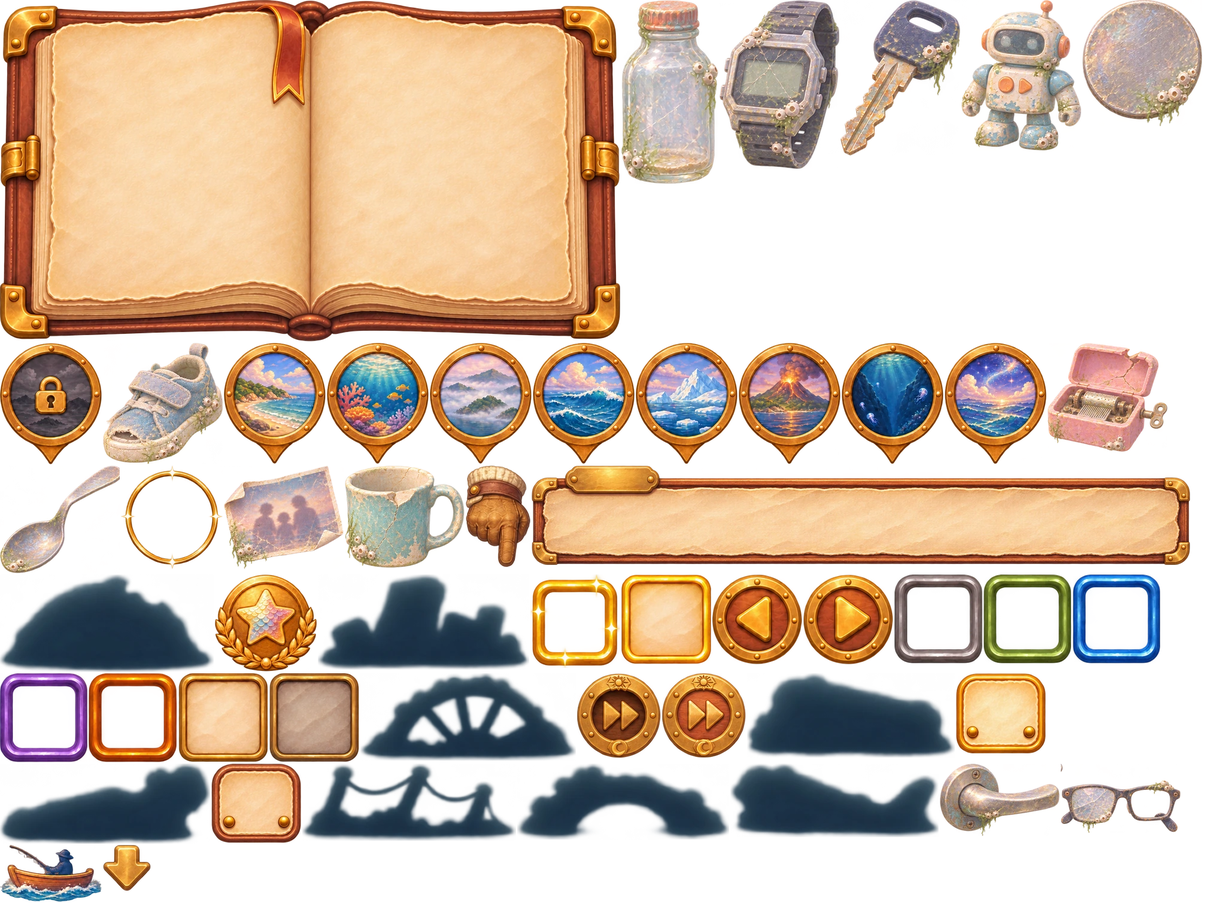
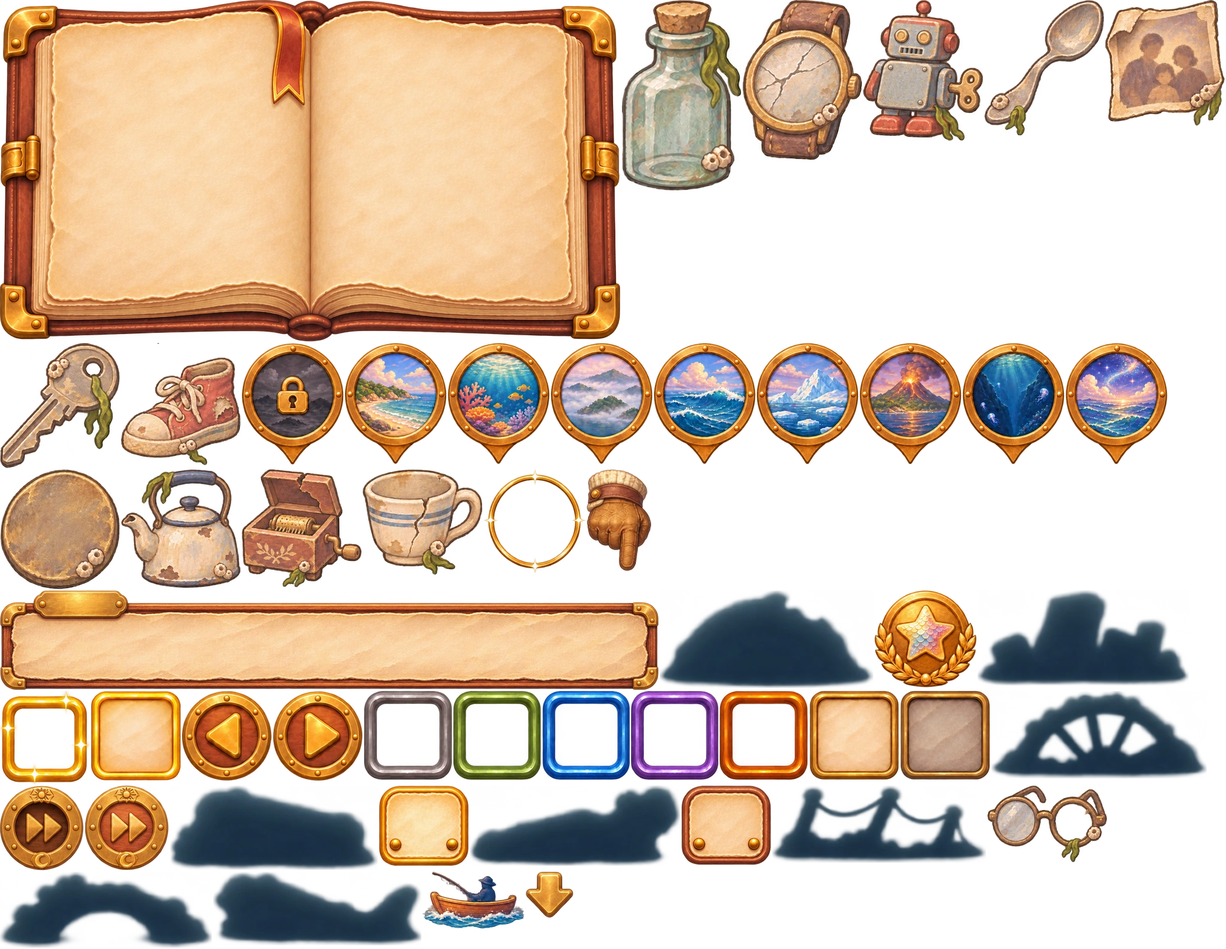
오래된 물건: 환상종이 남기는 가족의 물건 12점, 기억 장면, 능력, 도감의 옛 탭
- 주인공은 옛 세상에서 떠밀려 온 아이 (프롤로그 대사 수정)
- 물건을 주우면 말 없이 기억 두 줄이 떠오르고 능력이 하나 붙는다
- 환상종이 48마리 연달아 안 나오면 다음은 반드시 환상종
- 오르골을 찾으면 옛 노래가 끝까지 흐른다

Claude-Session: https://claude.ai/code/session_0142yqQtSepe3ngremP8BMYq

diff --git a/src/game.js b/src/game.js
@@ -12,6 +12,7 @@ import { sprite, preloadCreature } from './assets.js';
 import { createSwimmer, steer, mouth, updatePose } from './swim.js';
 import { newStory, updateStory, tapTalk } from './story.js';
 import { updateBook } from './book.js';
+import { RELICS, has } from './relics.js';
 
 const rand = (a, b) => a + Math.random() * (b - a);
 const lerp = (a, b, t) => a + (b - a) * t;
@@ -28,6 +29,7 @@ export function createGame() {
     eco: newEconomy(),                       // 장비·스킬 레벨
     cargo: [], cargoMax: 8,                  // 어창: 낚은 생물을 싣는다. 항구에서 판다
     region: 1,                               // 지금 있는 해역 (1~8)
+    relics: 0, memory: null, memoryNext: null, savedToday: false,   // 찾은 오래된 물건 수, 떠오르는 기억 장면, 오늘 줄을 한 번 살렸는가
     story: newStory(), talk: null, skip: null,   // 이야기 진행, 지금 떠 있는 대화, 시간 넘기는 중
     forceGrade: null, phase: 3, dayT: 0, dayWarned: false,   // 시간대(낮→노을→밤→새벽)와 그 시간대가 흐른 시간
     power: 0, powerDir: 1, castX: CAST_NEAR,
@@ -123,7 +125,7 @@ function buzz(pattern) { try { if (navigator.vibrate) navigator.vibrate(pattern)
 // ── 입력 ──
 export function press(g) {
   if (g.talk) { tapTalk(g); return; }                 // 대화 중에는 누르면 다음 줄
-  if (g.skip || g.map || g.dex) return;
+  if (g.skip || g.map || g.dex || g.memory) return;
   if (g.scene !== 'sea' || g.panel || g.travel) return;
   g.hold = true;
   switch (g.state) {
@@ -152,7 +154,7 @@ export function press(g) {
     case 'result':
       if (g.t > (g.catch.quick ? 0.55 : 1.1)) {
         const f = g.fish;
-        if (f.isFantasy) { g.catch.phase = 'release'; }
+        if (f.isFantasy) { g.catch.phase = 'release'; if (g.relics < RELICS.length) { g.memoryNext = g.relics; g.relics++; g.dirty = true; } }   // 놓아주면 오래된 물건 하나를 떨어뜨리고 간다
         else {
           say(g, `어창에 실었다 (${g.cargo.length}/${g.cargoMax})`); g.msg.y = H - 14;      // 낚은 생물과 현판을 가리지 않게 맨 아래에
           snd(g, 'stow');
@@ -204,10 +206,10 @@ export function update(g, dt) {
   updateTravel(g, dt); updateHarbor(g, dt); updateStory(g, dt); updateBook(g, dt);
   // 바다에서의 하루: 새벽에 나가서 밤이 끝나면 항구로 돌아온다 (항구에 있는 동안은 시간이 멈춘다)
   if (g.scene === 'sea' && !g.travel) {
-    if (!g.talk && !g.skip && !g.map && !g.dex) g.dayT += dt;                // 대화하는 동안은 시간이 흐르지 않는다
+    if (!g.talk && !g.skip && !g.map && !g.dex && !g.memory) g.dayT += dt / (has(g, 'cup') ? 1.1 : 1);   // 컵: 하루가 길어진다                // 대화하는 동안은 시간이 흐르지 않는다
     g.phase = phaseAt(Math.min(0.999, g.dayT / DAY_SEC));
     if (!g.dayWarned && g.dayT > DAY_SEC * 0.9) { g.dayWarned = true; if (g.state === 'idle' || g.state === 'wait') say(g, '밤이 깊었다. 곧 돌아가야 한다', '#cfd8ff'); }
-    if (g.dayT >= DAY_SEC && g.state === 'idle' && !g.panel && !g.talk && !g.map && !g.dex) {             // 낚시 중이면 그 한 마리는 끝까지 낚게 둔다
+    if (g.dayT >= DAY_SEC && g.state === 'idle' && !g.panel && !g.talk && !g.map && !g.dex && !g.memory) {             // 낚시 중이면 그 한 마리는 끝까지 낚게 둔다
       if (enterHarbor(g)) g.msg = { text: '하루가 저물어 항구로 돌아간다', color: '#cfd8ff', age: 0 };
     }
   }
@@ -241,7 +243,7 @@ export function update(g, dt) {
       break;
     }
     case 'charge': {
-      g.power += g.powerDir * TIMING.chargeSpeed * dt;
+      g.power += g.powerDir * TIMING.chargeSpeed * (has(g, 'shoe') ? 1.4 : 1) * dt;
       if (g.power >= 1) { g.power = 1; g.powerDir = -1; }
       if (g.power <= 0) { g.power = 0; g.powerDir = 1; }
       rodTarget = 1.5 + g.power * 0.7; rodRate = 12; pose = 2;
@@ -380,7 +382,10 @@ export function update(g, dt) {
 
 // ── 입질 대기: 그림자가 깊은 곳에서 올라와 찌 밑을 맴돌다가 문다 ──
 function startWait(g) {
-  g.fish = rollCreature(g.forceGrade, g.region, luckOf(g.eco, GRADES));                // 복장(행운): 높은 등급이 잘 나온다
+  // 환상종은 드물지만, 너무 오래 안 나오면 반드시 한 번 나온다 (오래된 물건이 운에만 달리지 않게)
+  const pity = !g.forceGrade && (g.sinceFantasy || 0) >= PITY ? 'fantasy' : null;
+  g.fish = rollCreature(g.forceGrade || pity, g.region, luckOf(g.eco, GRADES), has(g, 'musicbox') ? 1.5 : 1);
+  g.sinceFantasy = g.fish.isFantasy ? 0 : (g.sinceFantasy || 0) + 1;                // 복장(행운): 높은 등급이 잘 나온다
   g.fish.price = Math.round(g.fish.price * priceMult(g.eco, g.region));                // 해역·흥정·크기에 따른 값
   g.fish.meters *= sizeMult(g.eco);                                                    // 큰 개체: 몸길이
   g.fish.power = clamp(g.fish.power * pullOf(g.eco, g.region), 0.2, 6);                // 낚싯대에 비해 얼마나 세게 날뛰는가
@@ -395,7 +400,7 @@ function startWait(g) {
     { x: fx - L * rand(0.1, 0.34), y: DEEP * rand(0.52, 0.86), speed: rand(0.42, 0.62) },
   ];
   if (Math.random() < 0.35) plan.push(linger());                                // 가끔은 찌를 올려다보며 한참 뜸을 들인다
-  const fakes = Math.floor(rand(0, 2.6));
+  const fakes = Math.floor(rand(0, has(g, 'key') ? 1.5 : 2.6));
   for (let i = 0; i < fakes; i++) {
     plan.push({ touch: true, fake: true, speed: rand(0.4, 0.6) });
     plan.push({ x: fx - L * rand(0.52, 0.8), y: rand(82, 126), speed: rand(0.36, 0.56), face: 1, hover: Math.random() < 0.4 ? rand(0.3, 1) / q0 : 0 });   // 건드려 보고는 뒷걸음질로 물러났다가 다시 온다
@@ -456,8 +461,8 @@ function holdAtFloat(g, dt) {
 function startBite(g) {
   const pattern = g.fish.bite;
   g.bite = pattern === 'tok'
-    ? { pattern, next: 0, openAt: TIMING.tokInterval * 2, window: TIMING.tokWindow, perfectWin: TIMING.tokPerfect }
-    : { pattern, started: false, openAt: 0, window: TIMING.pullWindow, perfectWin: TIMING.pullPerfect };
+    ? { pattern, next: 0, openAt: TIMING.tokInterval * 2, window: TIMING.tokWindow, perfectWin: TIMING.tokPerfect * (has(g, 'watch') ? 1.5 : 1) }
+    : { pattern, started: false, openAt: 0, window: TIMING.pullWindow, perfectWin: TIMING.pullPerfect * (has(g, 'watch') ? 1.5 : 1) };
   setState(g, 'bite');
 }
 
@@ -505,11 +510,11 @@ function updateFight(g, dt) {
     if (f.tele <= 0) { f.mode = f.next; startMode(g); }
   } else if (f.modeT <= 0) {
     const next = chooseMode(g);
-    if (SURGE_MODES.includes(next)) { f.tele = TELEGRAPH; f.next = next; f.modeT = 99; }
+    if (SURGE_MODES.includes(next)) { f.tele = TELEGRAPH + (has(g, 'glasses') ? 0.15 : 0); f.next = next; f.modeT = 99; }
     else { f.mode = next; startMode(g); }
   }
   f.surging = SURGE_MODES.includes(f.mode) && f.tele <= 0;
-  f.stamina = clamp(f.stamina + (f.surging ? -0.06 : 0.02) * dt, 0, 1);
+  f.stamina = clamp(f.stamina + (f.surging ? -0.06 * (has(g, 'kettle') ? 1.5 : 1) : 0.02) * dt, 0, 1);
 
   // 감기·풀기
   const tired = f.mode === 'tired';
@@ -579,8 +584,11 @@ function updateFight(g, dt) {
     g.shake = Math.max(g.shake, 0.4 + p * 0.3);
   }
 
+  if (f.tension >= f.maxTension && has(g, 'photo') && !g.savedToday) {      // 가족 사진: 하루에 한 번, 끊어지려는 줄이 버텨 준다
+    g.savedToday = true; f.tension = f.maxTension * 0.45; g.flash = Math.max(g.flash, 0.2); say(g, '줄이 버텨 주었다', '#ffe9b8'); snd(g, 'card');
+  }
   if (f.tension >= f.maxTension) { fail(g, p > OVERPOWER ? '낚싯대가 버티지 못했다! 더 좋은 낚싯대가 필요하다' : g.fish.strain > OVERPOWER ? '줄이 끊어졌다! 더 좋은 줄이 필요하다' : '줄이 끊어졌다!'); return null; }
-  if (f.slack > FIGHT.slackTime) { fail(g, '바늘이 빠졌다…'); return null; }
+  if (f.slack > FIGHT.slackTime * (has(g, 'bottle') ? 1.6 : 1)) { fail(g, '바늘이 빠졌다…'); return null; }
   if (f.dist <= 0) {
     // 다 감았다. 다만 배 밑이나 반대쪽에 가 있으면 솟구칠 자리까지 뒷걸음질치게 되므로,
     // 제자리(배 왼쪽)로 돌아올 때까지 지친 상태로 끌려오게 한 뒤 낚아 올린다.
@@ -615,6 +623,7 @@ const SLOW = [0.55, 0.45, 0.38, 0.3, 0.25, 0.2];
 const DIM = [0, 0.04, 0.08, 0.14, 0.2, 0.26];
 const OVERPOWER = 1.75;    // 생물의 힘 ÷ 내 장비의 힘이 이보다 크면 감당할 수 없다
 const T_PULL = 0.95;
+export const PITY = 48;      // 환상종이 이만큼 연달아 안 나오면 다음은 환상종
 const QUICK = 2;            // 이미 본 일반 등급의 연출 빠르기
 const FACE_HOLD = 0.55;    // 뿅 한 뒤 카메라가 물러나기 시작할 때까지(초)
 const PULL_BACK = 1.7;     // 카메라가 물러나는 데 걸리는 시간(초)
@@ -636,7 +645,7 @@ function startCatch(g) {
   if (g.sw) ex += clamp(g.sw.x + lw * 0.3 - ex, -50, 40);            // 그림자가 있는 자리에 가깝게
   g.catch = {
     phase: 'pull', pt: 0, lw, gi, zoom, zs, ex, big, fit, ax, ay, fx,
-    quick: g.fish.grade === 'common' && g.records[g.fish.name] != null,
+    quick: (g.fish.grade === 'common' || (has(g, 'robot') && !g.fish.isFantasy)) && g.records[g.fish.name] != null,
     rise: 1.25,
     x: ex, y: WL + 200, rot: -0.5, out: 0, mix: 0, alpha: 1, scale: 1,
     erupted: false, shed: 0, skip: false, from: null, trail: 0,
@@ -742,6 +751,8 @@ function updateCatch(g, dt) {
     if (!g.catchFx && c.reveal && (c.popT >= tadaAt || c.skip)) { g.catchFx = { age: 0, gi }; c.tadaT = c.popT; g.flash = Math.max(g.flash, 0.25); snd(g, 'fanfare', gi); buzz([30, 40, 60 + gi * 20]); }
     if (g.catchFx && c.reveal && (c.popT >= c.tadaT + 0.3 || c.skip)) {
       const f = g.fish, prev = g.records[f.name];
+      if (prev === undefined && has(g, 'spoon')) f.price *= 2;                         // 숟가락: 처음 낚은 생물
+      if (prev !== undefined && f.meters > prev && has(g, 'coin')) f.price = Math.round(f.price * 1.5);   // 동전: 신기록
       g.result = { creature: f, isNew: prev === undefined, isRecord: prev !== undefined && f.meters > prev, prev, stamped: false, tickT: 0 };
       g.records[f.name] = Math.max(prev || 0, f.meters);
       if (!f.isFantasy) g.cargo.push({ name: f.name, price: f.price, grade: f.grade });   // 낚은 순간에 어창에 실린다 (카드를 보다가 꺼도 잃지 않는다. 판매는 항구에서)

diff --git a/src/book.js b/src/book.js
@@ -5,6 +5,7 @@ import { REGIONS } from './creatures.js';
 import { DOTS } from './dots.js';
 import { maxRegion } from './economy.js';
 import { DEX_TEXT } from './dexText.js';
+import { RELICS } from './relics.js';
 
 const FONT = '"Hahmlet", system-ui, "Apple SD Gothic Neo", "Malgun Gothic", sans-serif';
 const FONT2 = '"Jua", system-ui, "Apple SD Gothic Neo", "Malgun Gothic", sans-serif';
@@ -81,16 +82,16 @@ export function drawMap(ctx, g) {
 // ── 도감: 왼쪽 쪽에 그 해역의 생물 칸, 오른쪽 쪽에 고른 생물 ──
 const BW = 600, BX = (W - BW) / 2;
 const bookH = () => BW * sprite('dex_book').h / sprite('dex_book').w, BY = () => (H - bookH()) / 2 + 4;
-const TABS = [1, 2, 3, 4, 5, 6, 7, 8, 0];                 // 0 = 모든 해역 공용(평범한 물고기)
+const TABS = [1, 2, 3, 4, 5, 6, 7, 8, 0, 'R'];            // 0 = 모든 해역 공용(평범한 물고기), 'R' = 오래된 물건
 const COLS = 5, ROWS = 4, PER = COLS * ROWS, SLOT = 35, GAP = 5;
 const LX = () => BX + BW * 0.135, RX = () => BX + BW * 0.53, PW = () => BW * 0.34;      // 왼쪽·오른쪽 쪽의 안쪽 자리와 폭
 const gridY = () => BY() + 50;
-const listOf = (tab) => DOTS.filter((d) => d[3] === tab).sort((p, q) => GI[p[2]] - GI[q[2]]);
-const known = (g, d) => g.records[d[0]] != null;
-const tabRect = (i) => ({ x: LX() - 8 + i * 19.5, y: BY() - 3, w: 18.5, h: 17 });
+const listOf = (tab) => tab === 'R' ? RELICS : DOTS.filter((d) => d[3] === tab).sort((p, q) => GI[p[2]] - GI[q[2]]);
+const known = (g, d) => d.mem ? RELICS.indexOf(d) < (g.relics || 0) : g.records[d[0]] != null;
+const tabRect = (i) => ({ x: LX() - 12 + i * 16.4, y: BY() - 3, w: 15.8, h: 15 });
 const slotRect = (i) => ({ x: LX() + (PW() - (COLS * SLOT + (COLS - 1) * GAP)) / 2 + (i % COLS) * (SLOT + GAP), y: gridY() + Math.floor(i / COLS) * (SLOT + GAP), w: SLOT, h: SLOT });
 const arrowRect = (dir) => ({ x: LX() + PW() / 2 + dir * 46 - 9, y: gridY() + ROWS * (SLOT + GAP) + 3, w: 18, h: 18 });
-function loadPage(g) { const d = g.dex, list = listOf(d.tab).slice(d.page * PER, d.page * PER + PER); preloadCreature(...list.filter((c) => known(g, c)).map((c) => 'd_' + c[1])); }
+function loadPage(g) { const d = g.dex, list = listOf(d.tab).slice(d.page * PER, d.page * PER + PER); if (d.tab !== 'R') preloadCreature(...list.filter((c) => known(g, c)).map((c) => 'd_' + c[1])); }
 export function openDex(g) { g.dex = { a: 0, t: 0, closing: null, tab: g.region, page: 0, sel: null, selT: 0 }; loadPage(g); g.sfx.push(['paper']); }
 const inRect = (x, y, r, pad = 0) => x >= r.x - pad && x <= r.x + r.w + pad && y >= r.y - pad && y <= r.y + r.h + pad;
 export function tapDex(g, x, y) {
@@ -117,17 +118,18 @@ export function drawDex(ctx, g) {
   // 해역 탭 (책 위쪽에 꽂힌 쪽지)
   TABS.forEach((t, i) => { const r = tabRect(i), on = d.tab === t; img(ctx, on ? 'dex_tab_on' : 'dex_tab', r.x - (on ? 1 : 0), r.y - (on ? 3 : 0), r.w + (on ? 2 : 0)); });
   img(ctx, 'dex_book', BX, BY(), BW, bh);
-  TABS.forEach((t, i) => { const r = tabRect(i), on = d.tab === t; label(ctx, t ? String(t) : '공', r.x + r.w / 2, r.y + 6 - (on ? 2 : 0), 7.5, on ? '#5a3a1e' : '#8a7458', 'center', 700, null); });
+  TABS.forEach((t, i) => { const r = tabRect(i), on = d.tab === t; label(ctx, t === 'R' ? '옛' : t ? String(t) : '공', r.x + r.w / 2, r.y + 5.5 - (on ? 2 : 0), 7, on ? '#5a3a1e' : '#8a7458', 'center', 700, null); });
 
   const list = listOf(d.tab), pages = Math.max(1, Math.ceil(list.length / PER)), got = list.filter((c) => known(g, c)).length;
-  label(ctx, d.tab ? `${d.tab}. ${REGIONS[d.tab]}` : '어느 바다에나 사는 물고기', LX(), BY() + 34, 10.5, '#5a3a1e', 'left', 700, null);
+  label(ctx, d.tab === 'R' ? '오래된 물건' : d.tab ? `${d.tab}. ${REGIONS[d.tab]}` : '어느 바다에나 사는 물고기', LX(), BY() + 34, 10.5, '#5a3a1e', 'left', 700, null);
   label(ctx, `${got} / ${list.length}`, LX() + PW() - 36, BY() + 34, 9.5, '#8a6a48', 'right', 600, null);     // 책갈피 끈에 가리지 않는 자리
   const shown = list.slice(d.page * PER, d.page * PER + PER), pageA = clamp(d.t / 0.2, 0, 1);
   ctx.globalAlpha = a * (0.3 + 0.7 * pageA);
   shown.forEach((c, i) => {
     const r = slotRect(i), ok = known(g, c), sel = d.sel === c;
     img(ctx, sel ? 'dex_slot_on' : ok ? 'dex_slot' : 'dex_slot_off', r.x, r.y, r.w, r.h);
-    if (ok) { creature(ctx, 'd_' + c[1], r.x + r.w / 2, r.y + r.h / 2, r.w - 11, r.h - 11); img(ctx, 'dex_fr_' + (GI[c[2]] + 1), r.x + 1, r.y + 1, r.w - 2, r.h - 2); }
+    if (ok && c.mem) { const rs = sprite('relic_' + c.art), k = Math.min((r.w - 10) / rs.w, (r.h - 10) / rs.h); ctx.drawImage(rs.img, r.x + r.w / 2 - rs.w * k / 2, r.y + r.h / 2 - rs.h * k / 2, rs.w * k, rs.h * k); }
+    else if (ok) { creature(ctx, 'd_' + c[1], r.x + r.w / 2, r.y + r.h / 2, r.w - 11, r.h - 11); img(ctx, 'dex_fr_' + (GI[c[2]] + 1), r.x + 1, r.y + 1, r.w - 2, r.h - 2); }
     else label(ctx, '?', r.x + r.w / 2, r.y + r.h / 2 + 1, 13, 'rgba(90,70,50,0.55)', 'center', 700, null);
   });
   ctx.globalAlpha = a;
@@ -143,6 +145,24 @@ export function drawDex(ctx, g) {
     label(ctx, '도감', cx, BY() + 60, 16, '#5a3a1e', 'center', 700, null);
     label(ctx, `${all} / ${DOTS.length}`, cx, BY() + 86, 13, '#8a4a22', 'center', 700, null);
     label(ctx, '칸을 누르면 낚은 생물을 볼 수 있다', cx, BY() + 120, 9, '#8a7458', 'center', 600, null);
+  } else if (c.mem) {
+    // 오래된 물건: 마을 사람이 적은 한 줄, 떠오른 기억, 붙은 능력
+    const ok = known(g, c), k = clamp((d.t - d.selT) / 0.22, 0, 1), e = 1 - Math.pow(1 - k, 3);
+    ctx.globalAlpha = a * e;
+    if (ok) {
+      const rs = sprite('relic_' + c.art), kk = Math.min(rw * 0.42 / rs.w, 62 / rs.h);
+      ctx.drawImage(rs.img, cx - rs.w * kk / 2, BY() + 76 - rs.h * kk / 2 + (1 - e) * 5, rs.w * kk, rs.h * kk);
+      ctx.font = `600 8.5px ${FONT}`;
+      let yy = BY() + 122;
+      wrap(ctx, c.dex, rw - 14).forEach((ln) => { label(ctx, ln, cx, yy, 8.5, '#8a6a48', 'center', 600, null); yy += 11.5; });
+      yy += 6; c.mem.forEach((ln) => { label(ctx, ln, cx, yy, 9.5, '#3b2c1e', 'center', 700, null); yy += 13; });
+      yy += 6; ctx.font = `600 8.5px ${FONT}`; wrap(ctx, c.perk, rw - 14).forEach((ln) => { label(ctx, ln, cx, yy, 8.5, '#8a4a22', 'center', 700, null); yy += 11.5; });
+    } else {
+      label(ctx, '?', cx, BY() + 92, 44, 'rgba(90,70,50,0.4)', 'center', 700, null);
+      label(ctx, '아직 찾지 못했다', cx, BY() + 142, 12, '#5a4630', 'center', 700, null);
+      label(ctx, '환상의 생물을 놓아주면 무언가 남기고 간다', cx, BY() + 160, 8.5, '#8a6a48', 'center', 600, null);
+    }
+    ctx.globalAlpha = a;
   } else {
     const ok = known(g, c), gr = GRADES[GI[c[2]]], k = clamp((d.t - d.selT) / 0.22, 0, 1), e = 1 - Math.pow(1 - k, 3);
     ctx.globalAlpha = a * e;

diff --git a/src/relics.js b/src/relics.js
@@ -1,0 +1,32 @@
+// 오래된 물건: 환상종을 놓아주면 하나씩 떨어뜨리고 간다. 전부 주인공 가족의 물건이다.
+// 주인공은 옛 세상에서 떠밀려 온 아이였고 기억이 없다. 물건을 하나 찾을 때마다 기억이 한 조각씩 돌아오고, 능력이 하나씩 붙는다.
+// 기억은 말하는 사람 없이 글로만 떠오른다 (주인공은 말이 없다). 그날 무슨 일이 있었는지는 끝까지 직접 말하지 않는다.
+//   art = 그림 번호(relic_N), dex = 도감에 적힌 마을 사람의 한 줄(무엇인지 모른다), mem = 떠오르는 기억, perk = 능력
+export const RELICS = [
+  { id: 'spoon',    name: '숟가락',     art: 5,  dex: '움푹한 쇠 주걱. 국을 뜨기에는 너무 작다고 생선 장수는 말한다.',
+    mem: ['아침마다 식탁에서', '누군가 내 그릇에 한 숟갈을 더 얹어 주었다.'], perk: '처음 낚은 생물은 값이 2배' },
+  { id: 'cup',      name: '금 간 컵',   art: 11, dex: '손잡이 달린 그릇. 금이 갔는데도 누가 오래 쓴 흔적이 있다.',
+    mem: ['버리자고 해도 엄마는', '이 컵이 제일 손에 맞는다고 했다.'], perk: '하루가 10% 길어진다' },
+  { id: 'key',      name: '열쇠',       art: 2,  dex: '끝이 들쭉날쭉한 쇠붙이. 맞는 자물쇠는 마을 어디에도 없다.',
+    mem: ['우리 집 문의 열쇠.', '목에 걸고 다니다 잃어버려서 혼났다.'], perk: '헛입질이 줄어든다' },
+  { id: 'coin',     name: '동전',       art: 7,  dex: '다 닳아 무늬가 없는 둥근 쇠. 값을 매길 수 없다고 시장은 말한다.',
+    mem: ['아빠가 내 귀 뒤에서 꺼내 보이던 동전.', '나는 매번 속았다.'], perk: '신기록을 세우면 값 +50%' },
+  { id: 'bottle',   name: '유리병',     art: 8,  dex: '맑은 통에 나무 마개. 속은 비어 있다.',
+    mem: ['편지를 넣어 바다에 띄웠다.', '누군가 읽어 주기를 바라면서.'], perk: '줄이 느슨해도 바늘이 잘 빠지지 않는다' },
+  { id: 'glasses',  name: '안경',       art: 6,  dex: '둥근 유리 두 장. 눈에 대면 글씨가 커 보인다. 한 장은 빠졌다.',
+    mem: ['아빠는 안경을 이마에 올려놓고', '안경을 찾았다.'], perk: '날뛰기 전의 조짐이 더 오래 보인다' },
+  { id: 'shoe',     name: '신발 한 짝', art: 9,  dex: '아이 발에나 맞을 작은 신. 한 짝뿐이다.',
+    mem: ['내 신발. 한 짝을 잃어버린 날,', '업혀서 집에 왔다.'], perk: '던지는 힘이 빨리 찬다' },
+  { id: 'kettle',   name: '주전자',     art: 10, dex: '주둥이 달린 솥. 주전자고래의 등에 있는 것과 꼭 닮았다.',
+    mem: ['주전자가 울면 저녁이었다.', '그날은 주전자가 울지 않았다.'], perk: '물고기가 더 빨리 지친다' },
+  { id: 'watch',    name: '손목시계',   art: 3,  dex: '가죽 띠에 달린 둥근 유리. 바늘이 없어 무엇을 세던 것인지 모른다.',
+    mem: ['엄마가 시계를 자꾸 봤다.', '"아직 시간 있어." 그 말을 여러 번 했다.'], perk: '완벽한 챔질이 쉬워진다' },
+  { id: 'robot',    name: '태엽 로봇',  art: 4,  dex: '쇠로 만든 작은 사람. 등의 나비를 감으면 몇 걸음 걷는다.',
+    mem: ['짐은 하나만 챙기라고 했다.', '나는 이 녀석을 골랐다.'], perk: '도감에 있는 생물은 모두 빨리 건져 올린다' },
+  { id: 'musicbox', name: '오르골',     art: 12, dex: '뚜껑이 깨진 작은 상자. 손잡이를 돌리면 옛 노래가 나온다. 끝까지.',
+    mem: ['배 위에서 엄마가 태엽을 감아 주었다.', '"노래가 끝나기 전에 잠들렴."'], perk: '환상종이 더 자주 나타난다' },
+  { id: 'photo',    name: '가족 사진',  art: 1,  dex: '빛바랜 종이에 사람 셋. 누구인지 아무도 모른다. 하지만 웃고 있다는 것은 알겠다.',
+    mem: ['가운데 작은 아이가 나다.', '우리는 웃고 있었다.'], perk: '하루에 한 번, 끊어지려는 줄이 버텨 준다' },
+];
+// 그 물건을 가졌는가 (찾은 순서대로 g.relics 개)
+export const has = (g, id) => (g.relics || 0) > RELICS.findIndex((r) => r.id === id);

diff --git a/src/render.js b/src/render.js
@@ -10,7 +10,7 @@ import { W, H, HORIZON, WL, DEEP, PHASES, COLORS, GRADES, DAY_SEC, DAY_PLAN } fr
 import { sprite, hasSprite, creatureSprite, tinted } from './assets.js';
 import { fmt } from './economy.js';
 import { drawHarbor, drawPanel, drawSeaButtons } from './harbor.js';
-import { drawTalk, drawHint, drawSkip } from './story.js';
+import { drawTalk, drawHint, drawSkip, drawMemory } from './story.js';
 import { drawMap, drawDex } from './book.js';
 import { boatPose, rodPose, surfaceY, mouthPos, leapMouth, leapHeight } from './game.js';
 
@@ -155,7 +155,7 @@ function drawResultCard(ctx, g) {
   fitText(ctx, f.name, box(L.name), 12.5, FONT2, 400, COLORS.navy);
   // 숫자가 차르르 올라가며 측정된다
   const cu = clamp((T - 0.3) / 0.6, 0, 1), count = 1 - Math.pow(1 - cu, 3);
-  fitText(ctx, f.isFantasy ? `${(f.meters * count).toFixed(1)} m · 증표` : `${(f.meters * count).toFixed(1)} m · ${fmt(f.price * count)} G`, box(L.stat), 9, FONT, 600, '#5a4630');
+  fitText(ctx, f.isFantasy ? `${(f.meters * count).toFixed(1)} m · 놓아준다` : `${(f.meters * count).toFixed(1)} m · ${fmt(f.price * count)} G`, box(L.stat), 9, FONT, 600, '#5a4630');
   if (T > (g.catch && g.catch.quick ? 0.55 : 1.1) && !gone) text(ctx, f.isFantasy ? '눌러서 놓아주기' : '눌러서 계속', cx + cw + 8, H - 18, 10, 'rgba(255,244,220,0.92)', 'left', 600);
 
   // 첫 포획 / 신기록 도장: 크게 나타나 쾅 찍힌다
@@ -187,7 +187,7 @@ export function render(ctx, g) {
   renderSea(ctx, g);
   drawPanel(ctx, g);
   if (g.panel) { drawGold(ctx, g); drawMsg(ctx, g); drawCoins(ctx, g); }
-  drawSkip(ctx, g); drawMap(ctx, g); drawDex(ctx, g); drawHint(ctx, g); drawTalk(ctx, g);
+  drawSkip(ctx, g); drawMap(ctx, g); drawDex(ctx, g); drawHint(ctx, g); drawTalk(ctx, g); drawMemory(ctx, g);
   drawVeil(ctx, g);
 }
 // 시간대의 빛: 화면 전체에 곱해지는 색. 시간대가 바뀌면 몇 초에 걸쳐 서서히 물든다.

diff --git a/src/harbor.js b/src/harbor.js
@@ -2,7 +2,7 @@
 import { W, H, COLORS } from './config.js';
 import { sprite, hasSprite } from './assets.js';
 import { REGIONS } from './creatures.js';
-import { tapTalk, tapSkip, storyTown, storyRegion } from './story.js';
+import { tapTalk, tapSkip, storyTown, storyRegion, tapMemory } from './story.js';
 import { openMap, tapMap, openDex, tapDex } from './book.js';
 import {
   GEAR, SKILLS, SHOPS, TOWN_NAMES, TOWN_LOOK, buy, gearCost, skillCost, gearBlock, gearLabel, maxRegion, fmt,
@@ -73,7 +73,7 @@ export function enterHarbor(g) {
     }
   });
 }
-export function leaveHarbor(g) { return travel(g, () => { g.scene = 'sea'; g.panel = null; g.dayT = 0; g.dayWarned = false; g.phase = 3; }); }   // 새 하루가 새벽에 시작된다
+export function leaveHarbor(g) { return travel(g, () => { g.scene = 'sea'; g.panel = null; g.dayT = 0; g.dayWarned = false; g.phase = 3; g.savedToday = false; }); }   // 새 하루가 새벽에 시작된다
 // 지도에서 고른 해역으로 간다
 function goRegion(g, n) {
   travel(g, () => { g.region = n; g.msg = { text: `${n}번 해역 · ${REGIONS[n]}`, color: '#fff4dc', age: -0.2 }; storyRegion(g); });
@@ -130,6 +130,7 @@ function closePanel(g) { if (g.panel && g.panel.closing == null) { g.panel.closi
 // ── 누르기. 처리했으면 true (낚시 조작으로 넘기지 않는다) ──
 export function pointer(g, x, y) {
   if (g.travel) return true;
+  if (g.memory) { tapMemory(g); return true; }
   if (g.talk) { tapTalk(g, x, y); return true; }       // 대화가 떠 있으면 다른 것은 눌리지 않는다
   if (g.map) { const r = tapMap(g, x, y); if (r) goRegion(g, r); return true; }
   if (g.dex) { tapDex(g, x, y); return true; }

diff --git a/src/main.js b/src/main.js
@@ -84,7 +84,7 @@ if (btnSound) btnSound.addEventListener('click', () => {
 // ── 저장 (이 기기의 브라우저에만 남는다) ──
 const SAVE = 'horizon-angler-save-1';
 function save() {
-  try { localStorage.setItem(SAVE, JSON.stringify({ gold: game.gold, eco: game.eco, region: game.region, dayT: game.dayT, cargo: game.cargo, records: game.records, story: game.story.seen })); } catch { /* 저장이 막힌 환경에서는 그냥 넘어간다 */ }
+  try { localStorage.setItem(SAVE, JSON.stringify({ gold: game.gold, eco: game.eco, region: game.region, dayT: game.dayT, cargo: game.cargo, records: game.records, story: game.story.seen, relics: game.relics, sinceFantasy: game.sinceFantasy || 0 })); } catch { /* 저장이 막힌 환경에서는 그냥 넘어간다 */ }
 }
 try {
   const d = JSON.parse(localStorage.getItem(SAVE) || 'null');
@@ -94,6 +94,7 @@ try {
     Object.assign(game.eco.shop, d.eco && d.eco.shop); game.eco.town = (d.eco && d.eco.town) || 1;
     game.region = Math.min(d.region || 1, maxRegion(game.eco)); game.cargo = d.cargo || []; game.records = d.records || {};
     game.cargoMax = cargoMax(game.eco); game.dayT = d.dayT || 0;
+    game.relics = d.relics || 0; game.sinceFantasy = d.sinceFantasy || 0;
     if (d.story) game.story.seen = d.story; else skipBasics(game);     // 이야기가 생기기 전의 저장: 처음 안내는 건너뛴다
   }
 } catch { /* 저장된 것이 없거나 읽을 수 없으면 새로 시작 */ }

diff --git a/src/creatures.js b/src/creatures.js
@@ -51,13 +51,13 @@ const rand = (a, b) => a + Math.random() * (b - a);
 
 export const REGIONS = ['', '햇살 연안', '산호초 열대', '안개 군도', '원양 대해', '극지 빙해', '화산 해역', '심연 해구', '환상의 바다'];
 
-export function rollCreature(forcedGrade, region = 1, luck = 1) {
+export function rollCreature(forcedGrade, region = 1, luck = 1, fantasyBoost = 1) {
   let grade;
   if (forcedGrade) {
     grade = GRADES.find((g) => g.id === forcedGrade);
   } else {
-    // 행운(복장): 등급이 하나 높을수록 나올 가능성이 luck배씩 커진다 (환상종은 전설만큼만)
-    const wt = GRADES.map((g, i) => g.weight * luck ** Math.min(i, 4)), total = wt.reduce((s, v) => s + v, 0);
+    // 행운(복장): 등급이 하나 높을수록 나올 가능성이 luck배씩 커진다 (환상종은 덜 늘어난다: 오래된 물건이 끝 무렵까지 조금씩 모이게)
+    const wt = GRADES.map((g, i) => g.weight * luck ** (g.id === 'fantasy' ? 2 : i) * (g.id === 'fantasy' ? fantasyBoost : 1)), total = wt.reduce((s, v) => s + v, 0);
     let r = Math.random() * total;
     grade = GRADES.find((g, i) => (r -= wt[i]) < 0) || GRADES[0];
   }

diff --git a/src/audio.js b/src/audio.js
@@ -260,6 +260,8 @@ export function createEngine(ctx) {
     tap(t) { osc(t, 0.03, 720, 'sine', env(t, 0.03, 0.14, 0.002, sfx)); },
     travel(t) { noise(t, 0.7, { vol: 0.14, from: 500, to: 2600, type: 'bandpass', q: 0.8, attack: 0.3 }); ep(t + 0.3, 55, 0.9, 0.3, sfx); },
     gull(t, r) { const f = 1900 + r * 500; for (let i = 0; i < 2 + Math.floor(r * 2); i++) { const x = t + i * 0.24; osc(x, 0.24, f, 'sine', env(x, 0.24, 0.022, 0.06, amb), f * 0.74); } },
+    memory(t) { [67, 72, 76].forEach((m, i) => box(t + 0.5 + i * 0.5, m + 12, 0.34, amb)); },                    // 기억이 떠오른다: 오르골 세 음
+    oldsong(t) { let x = 0; for (const [n, len] of OLD_SONG) { box(t + 0.6 + x * 0.55, 60 + n + 12, 0.4, amb); x += len; } },   // 오르골: 옛 노래가 처음으로 끝까지
     bell(t) { [72, 79].forEach((m) => { osc(t, 2.6, mtof(m), 'sine', env(t, 2.6, 0.09, 0.004, amb)); osc(t, 1.2, mtof(m) * 2.4, 'sine', env(t, 1.2, 0.03, 0.004, amb)); }); },
   };
 

diff --git a/GAME_DESIGN.md b/GAME_DESIGN.md
@@ -544,3 +544,12 @@
 | 릴 | **줄다리기 게이지 틀** 8단계 (홈의 자리와 크기는 같고 장식만 다르다) |
 | 복장 | **바람에 날리는 목도리** 8단계 (길어지고 화려해진다). 높은 등급이 입질하는 순간 목도리 끝이 잠깐 반짝인다 (복장 = 행운). 그림자는 등급을 숨기는 것이 원칙이라, 이 반짝임이 과한 힌트로 느껴지면 뺀다 |
 
+## 주인공과 오래된 물건 (확정)
+
+- **주인공은 옛 세상에서 온 사람이다.** 어릴 때 바다에서 떠밀려 온 아이였고, 기억이 없고 말이 없다. 마을의 늙은 어부("영감님")가 건져 키웠고, 낡은 배는 그의 것이다. 어떻게 그 긴 세월을 건너왔는지는 설명하지 않는다 (5번 해역의 "빙산 속에 갇힌, 배라고 하기엔 너무 큰 것"이 단서로만 남는다). 마을 사람들은 끝까지 모른다.
+- **환상종을 놓아주면 오래된 물건 하나를 떨어뜨리고 간다.** 12점, 정해진 순서. 전부 주인공 가족의 물건이다.
+- 물건을 주우면 화면이 어두워지고 **말하는 사람 없이 기억 두 줄**이 떠오른다. 그날 무슨 일이 있었는지는 끝까지 직접 말하지 않는다. 11번째 오르골에서 옛 노래가 처음으로 끝까지 흐르고, 마지막은 가족 사진("가운데 작은 아이가 나다. 우리는 웃고 있었다.").
+- **물건마다 능력이 하나씩 붙는다** (다른 강화와 겹치지 않는, 편해지는 능력): 숟가락 처음 낚은 생물 값 2배 · 컵 하루 10% 길게 · 열쇠 헛입질 줄임 · 동전 신기록 값 +50% · 유리병 바늘이 잘 안 빠짐 · 안경 조짐이 오래 보임 · 신발 던지는 힘이 빨리 참 · 주전자 물고기가 빨리 지침 · 손목시계 완벽한 챔질이 쉬움 · 태엽 로봇 도감에 있는 생물은 모두 빨리 건짐 · 오르골 환상종이 자주 · 가족 사진 하루 한 번 줄이 버텨 줌. (`src/relics.js`)
+- 도감의 "옛" 탭에서 모은 물건을 본다: 마을 사람이 적은 한 줄(무엇인지 모른다) + 떠오른 기억 + 능력.
+- **나오는 빈도**: 환상종이 48마리 연달아 안 나오면 다음은 반드시 환상종. 3시간에 12~16마리쯤이라 끝 무렵에 12점이 다 모인다.
+
